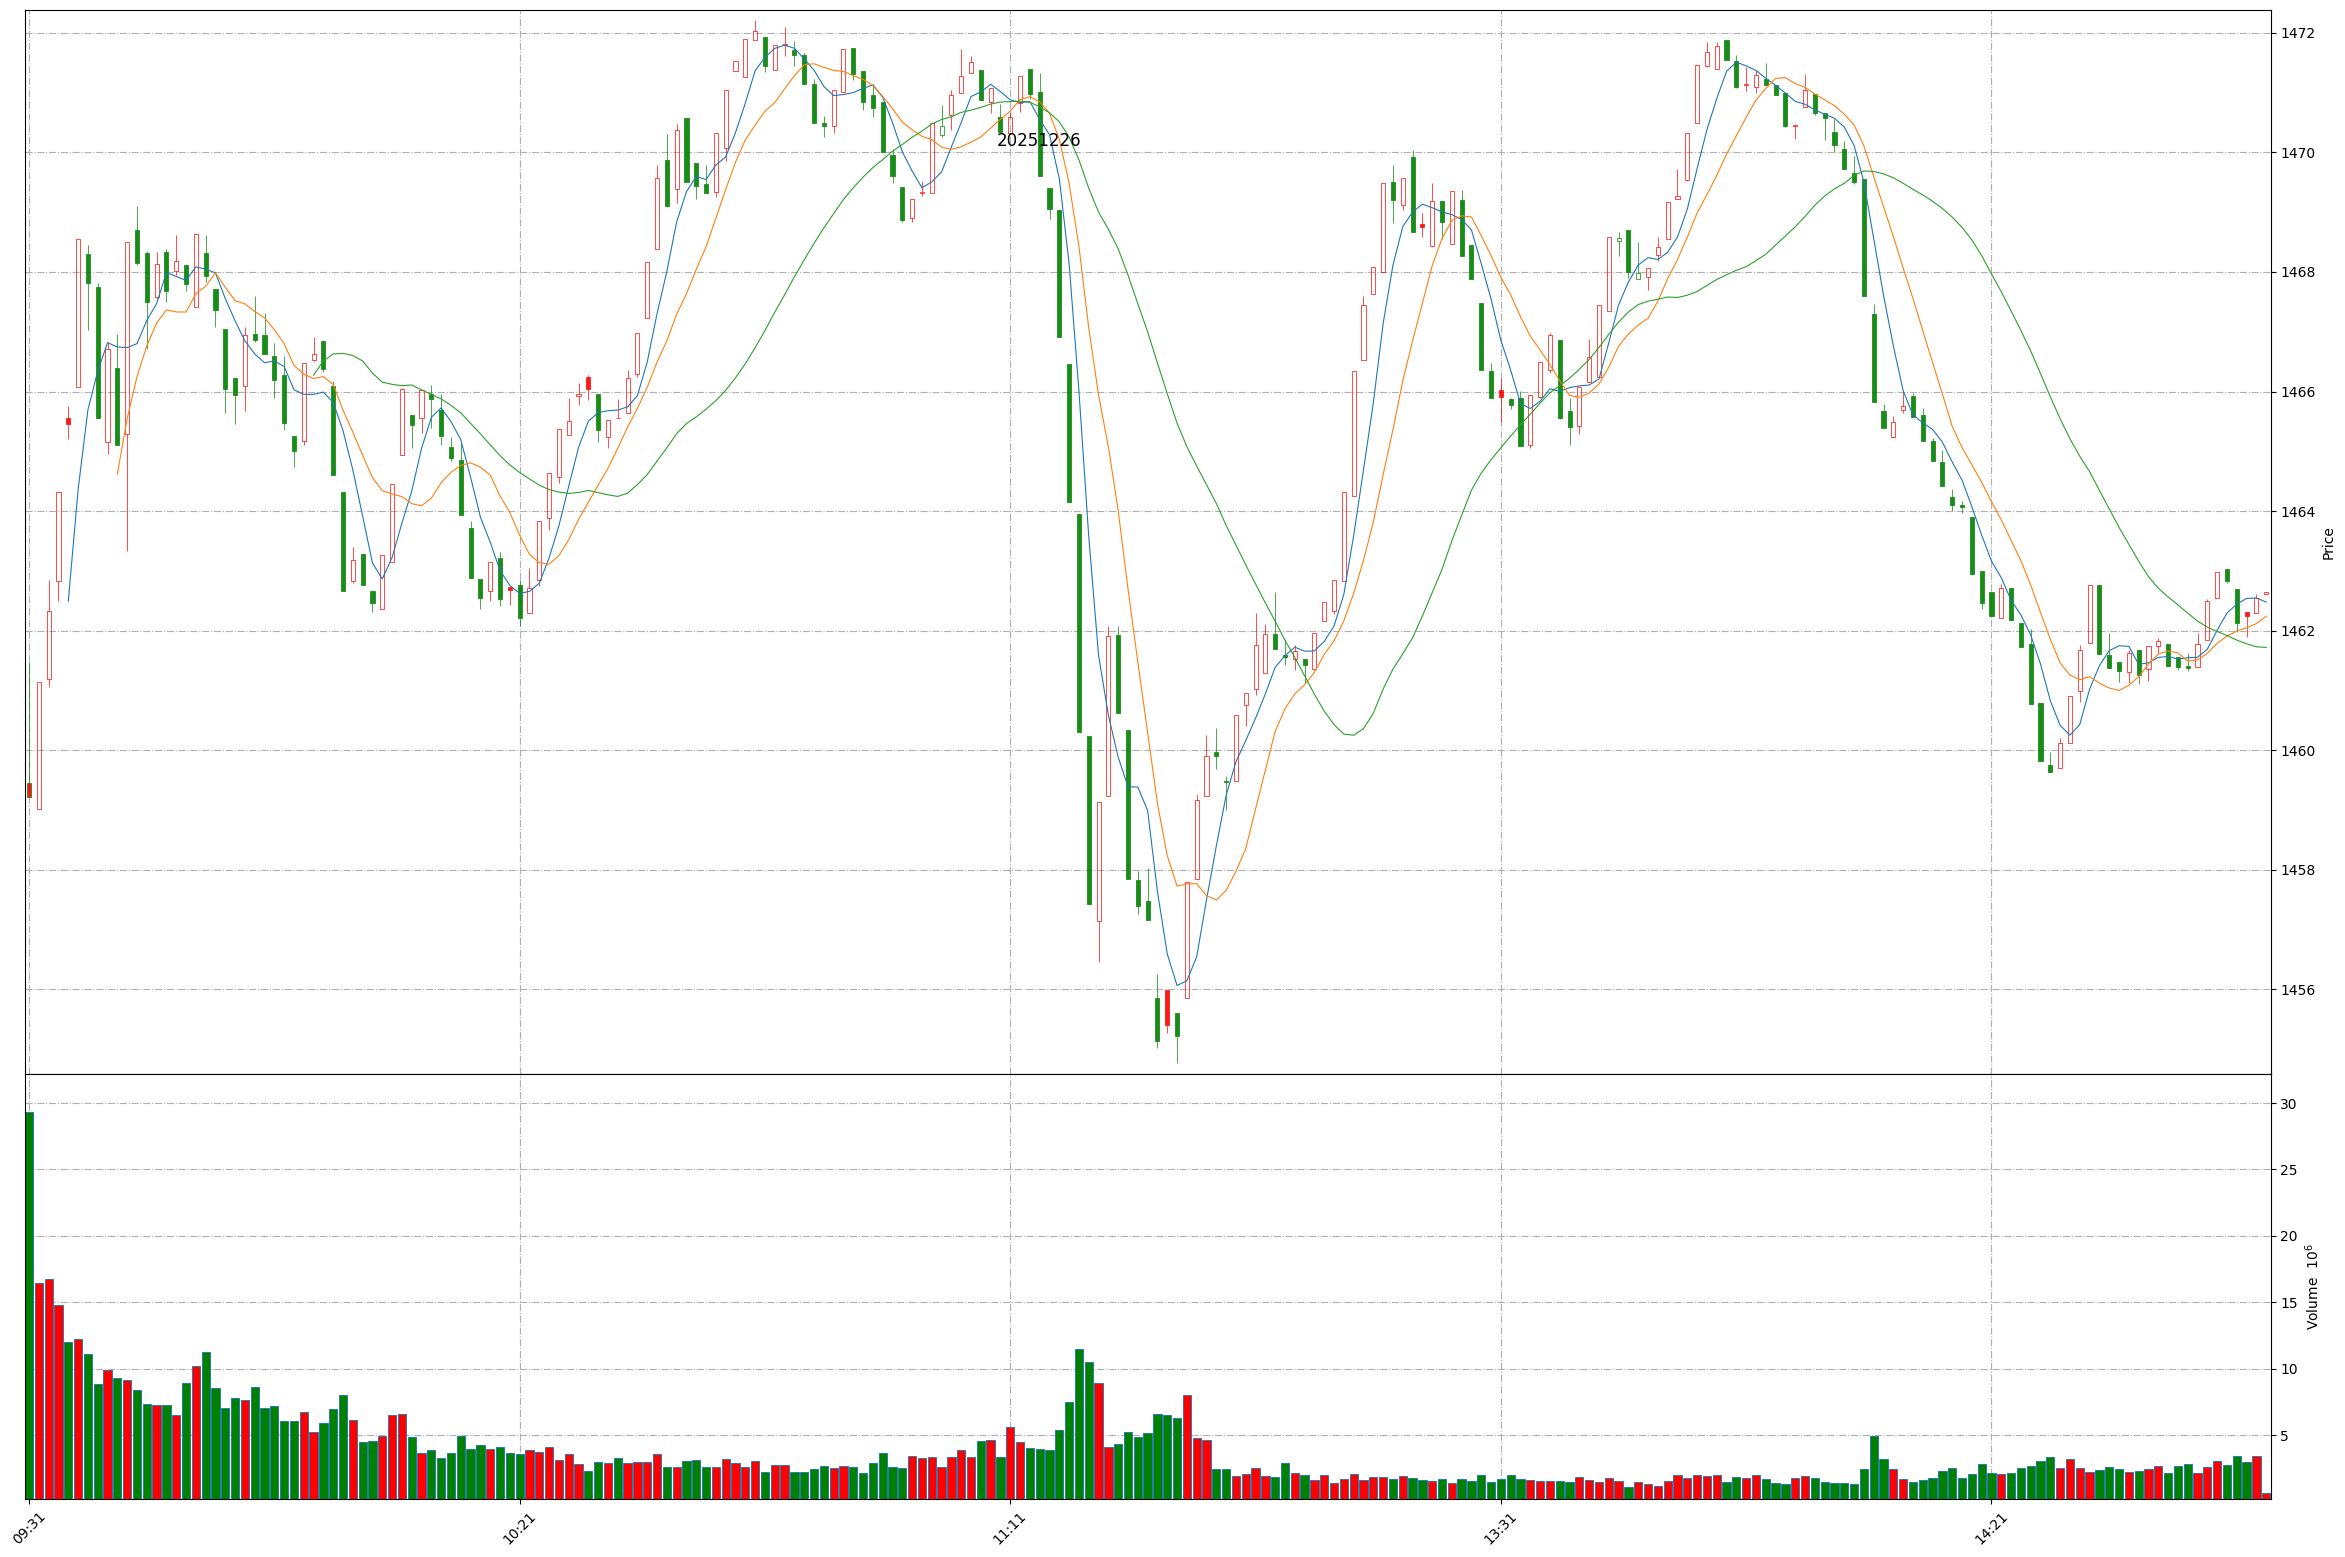
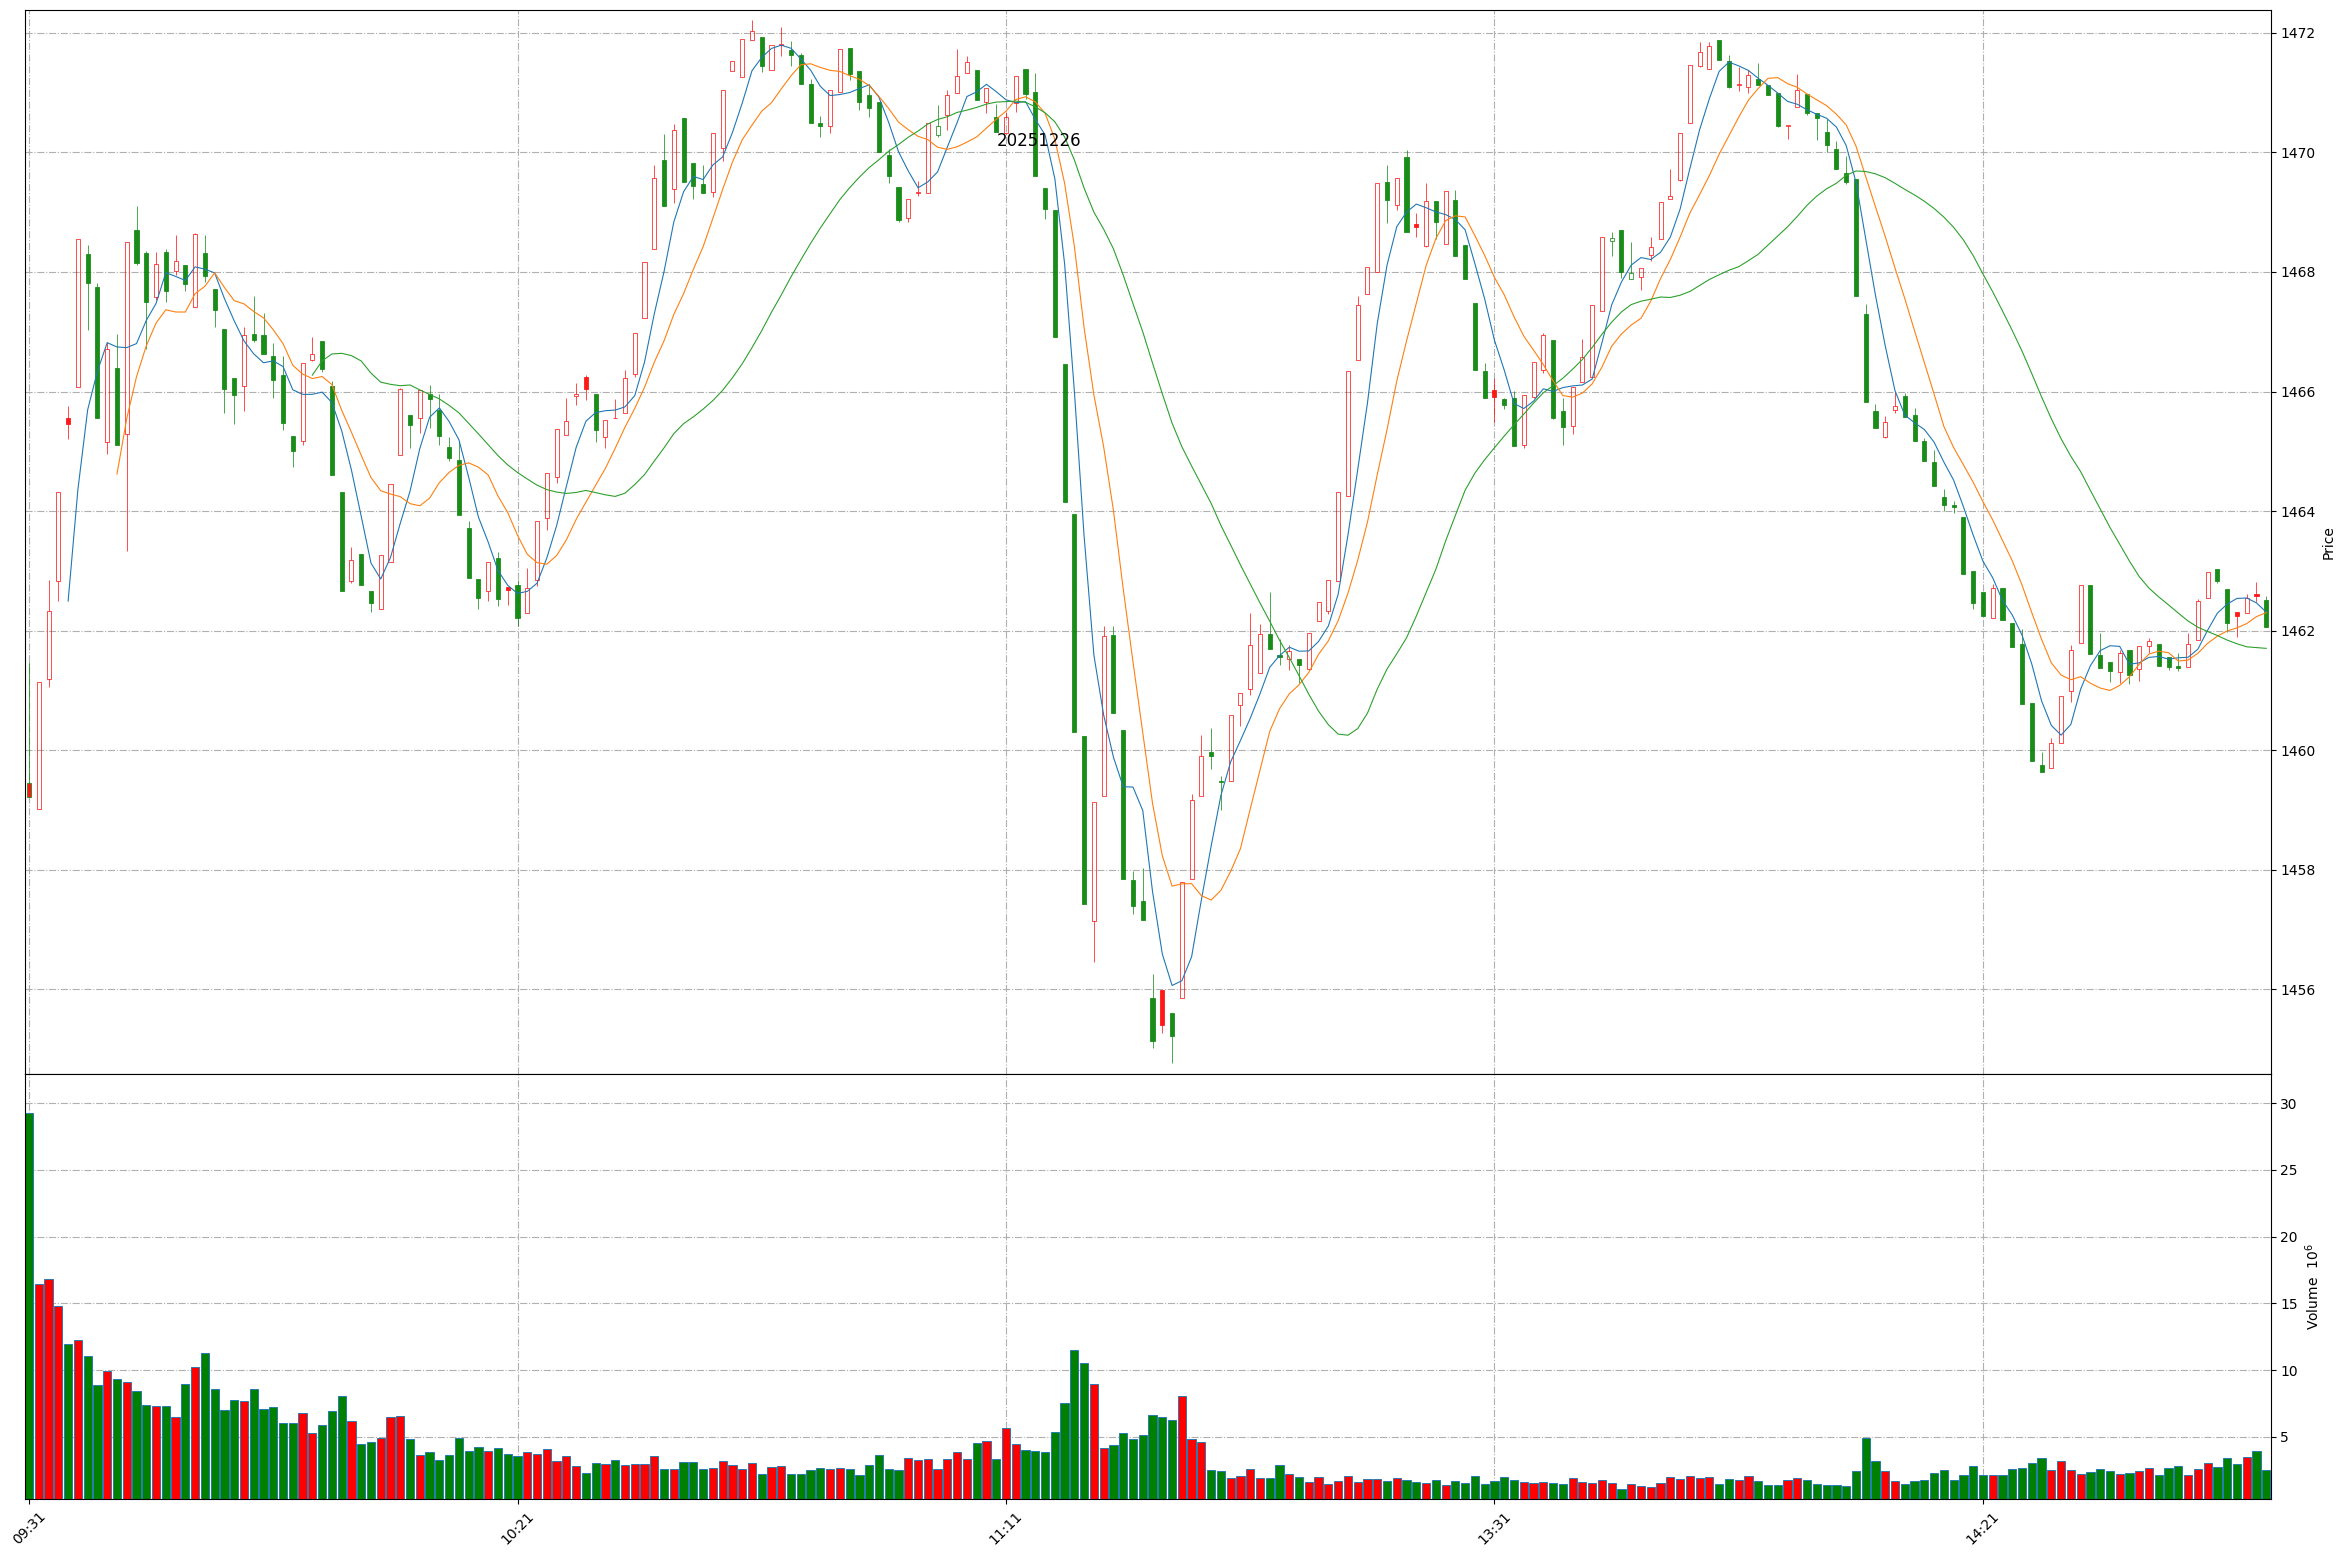
Github action update at 2025-12-26 14:49:55.

diff --git a/README.md b/README.md
@@ -1,11 +1,11 @@
 
 # Daily-A-share-market-quotes 每日 A 股指数（5min 更新）- 20251226
 
-### 上证指数 20251226 14:48
+### 上证指数 20251226 14:49
 ![](./fig/2025/12/20251226-sh000001.png)
 
-### 深证成指 20251226 14:48
+### 深证成指 20251226 14:49
 ![](./fig/2025/12/20251226-sz399001.png)
 
-### 北证50 20251226 14:48
+### 北证50 20251226 14:49
 ![](./fig/2025/12/20251226-bj899050.png)
